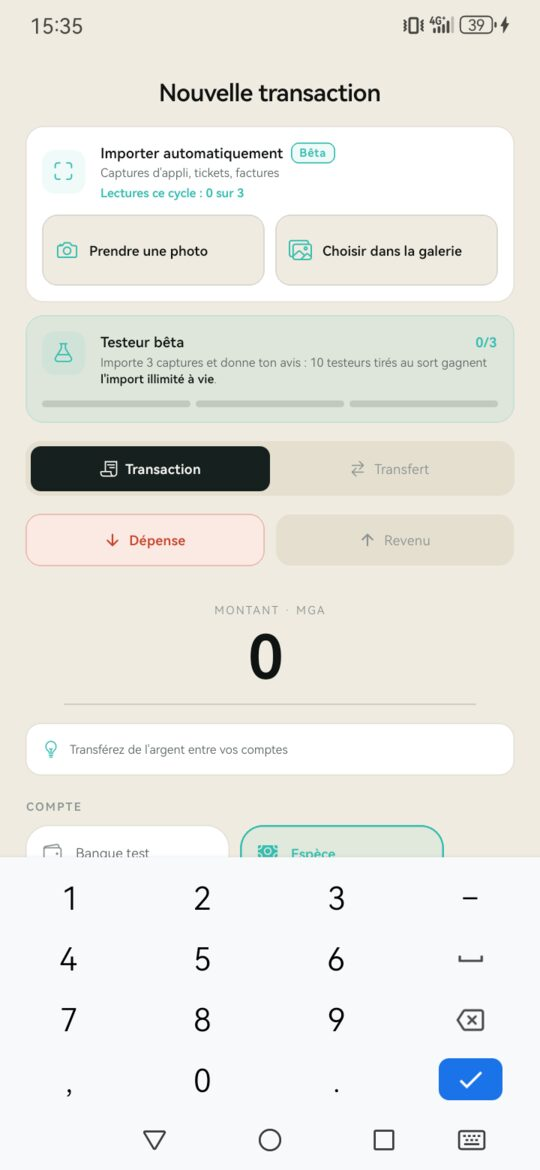
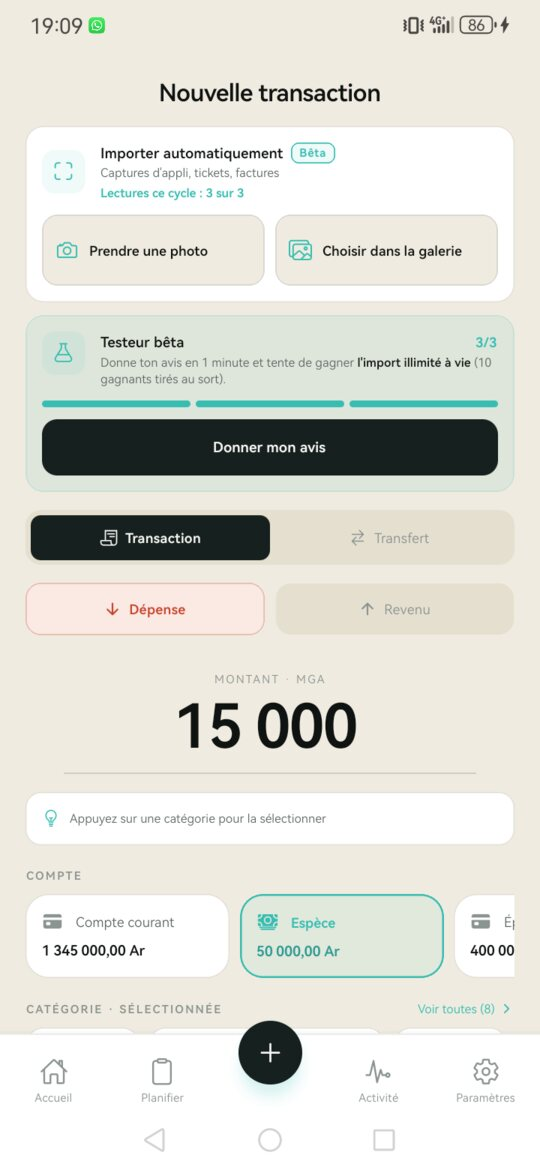
feat(landing): captures de l'app refaites avec données neutres (accueil et Nouvelle transaction, clair et sombre), maquette réduite aux fichiers utiles

diff --git a/src/components/intro/Solution.tsx b/src/components/intro/Solution.tsx
@@ -15,7 +15,11 @@ export function Solution() {
           <p>{t("valueProposition")}</p>
         </div>
         <div className="lp-solution-body">
-          <PhoneFrame src="/app/add-light.jpg" alt={tShots("entry")} />
+          <PhoneFrame
+            src="/app/add-light.jpg"
+            darkSrc="/app/add-dark.jpg"
+            alt={tShots("entry")}
+          />
           <div className="lp-promises">
             {promiseKeys.map((key) => (
               <article key={key}>

diff --git a/src/components/intro/Hero.tsx b/src/components/intro/Hero.tsx
@@ -43,6 +43,7 @@ export function Hero() {
           <PhoneFrame
             className="lp-phone-second"
             src="/app/add-light.jpg"
+            darkSrc="/app/add-dark.jpg"
             alt={tShots("add")}
             eager
           />
